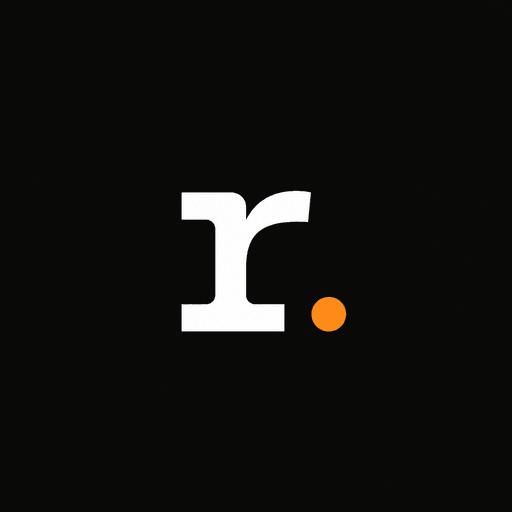
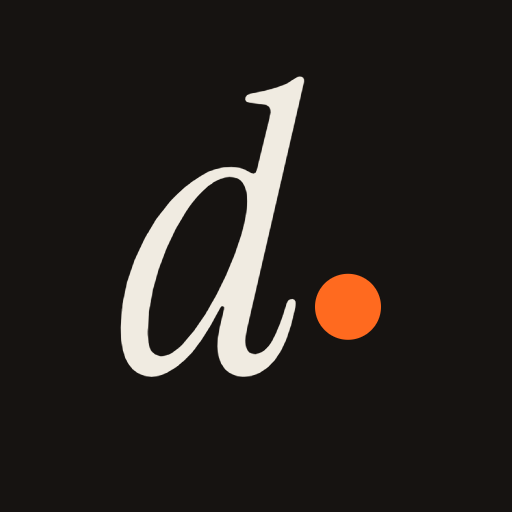
Brand the installed app as dsarecx; add developer GitHub contact
- manifest.json: name, short name, description, start page, colours,
  maskable icon and shortcuts are dsarecx (was Engram)
- New "d." app icons and favicon (scripts/generate-icons.mjs); remove
  unused old images
- GitHub profile github.com/lakshmanrevanth as developer contact on the
  contact, about and footer, and in page metadata
- Default source repo lakshmanrevanth/dsarecx for issue and source links

Changed region(s): [[0.2188, 0.125, 0.75, 0.75]]

diff --git a/src/components/landing/footer.tsx b/src/components/landing/footer.tsx
@@ -51,7 +51,7 @@ export function Footer() {
                   href={siteConfig.githubUrl}
                   target="_blank"
                   rel="noopener noreferrer"
-                  aria-label={`${siteConfig.name} on GitHub`}
+                  aria-label={`${siteConfig.name} source code on GitHub`}
                   className="hover:text-foreground"
                 >
                   <GitHubIcon size={16} />
@@ -77,7 +77,11 @@ export function Footer() {
 
         <div className="mt-16 flex flex-col gap-3 border-t border-border pt-6 font-mono text-[11px] uppercase tracking-[0.14em] text-faint sm:flex-row sm:items-center sm:justify-between">
           <span>
-            © {year} {siteConfig.owner} · {siteConfig.license}
+            © {year}{' '}
+            <a href={siteConfig.ownerGithubUrl} target="_blank" rel="noopener noreferrer" className="hover:text-foreground">
+              {siteConfig.owner} (@{siteConfig.ownerGithub})
+            </a>{' '}
+            · {siteConfig.license}
           </span>
           <span>Not affiliated with LeetCode or any platform listed</span>
         </div>

diff --git a/src/config/site.ts b/src/config/site.ts
@@ -18,7 +18,11 @@ export function parseRepo(value: string | undefined): string | null {
   return /^[\w.-]+\/[\w.-]+$/.test(v) ? v : null;
 }
 
-const githubRepo = parseRepo(process.env.NEXT_PUBLIC_GITHUB_REPO);
+/** The public source repository. NEXT_PUBLIC_GITHUB_REPO overrides it (e.g. for a fork). */
+const githubRepo = parseRepo(process.env.NEXT_PUBLIC_GITHUB_REPO) ?? 'lakshmanrevanth/dsarecx';
+
+/** The developer's GitHub profile: the main contact for the project. */
+const ownerGithub = 'lakshmanrevanth';
 
 export const siteConfig = {
   name: 'dsarecx',
@@ -31,6 +35,8 @@ export const siteConfig = {
     'Spaced repetition for DSA problems and system design. dsarecx schedules each review right before you would forget, so patterns stick for your interviews.',
   owner: 'Lakshman Revanth Reddy',
   contactEmail: 'revanth3527@gmail.com',
+  ownerGithub,
+  ownerGithubUrl: `https://github.com/${ownerGithub}`,
   url,
   host: hostOf(url),
   githubRepo,

diff --git a/src/app/layout.tsx b/src/app/layout.tsx
@@ -63,7 +63,7 @@ export const metadata: Metadata = {
     'Coding interview preparation',
     'Forgetting curve',
   ],
-  authors: [{ name: siteConfig.owner }],
+  authors: [{ name: siteConfig.owner, url: siteConfig.ownerGithubUrl }],
   creator: siteConfig.owner,
   category: 'Education & Developer Tools',
   formatDetection: { email: false, address: false, telephone: false },
@@ -123,7 +123,7 @@ const jsonLd = {
         'System design concepts and learning paths',
         'Daily revision queue, streaks, heatmap and stats',
       ],
-      author: { '@type': 'Person', name: siteConfig.owner },
+      author: { '@type': 'Person', name: siteConfig.owner, url: siteConfig.ownerGithubUrl },
     },
     {
       '@type': 'Organization',

diff --git a/src/app/(landing)/about/page.tsx b/src/app/(landing)/about/page.tsx
@@ -57,7 +57,11 @@ export default function AboutPage() {
           title: 'Open source',
           body: (
             <p>
-              {name} is made by {siteConfig.owner}. It is free and open source under {siteConfig.license}, and your data exports in
+              {name} is made by{' '}
+              <a href={siteConfig.ownerGithubUrl} target="_blank" rel="noopener noreferrer" className="text-foreground underline underline-offset-2 hover:text-ember">
+                {siteConfig.owner}
+              </a>
+              . It is free and open source under {siteConfig.license}, and your data exports in
               full whenever you want it.
             </p>
           ),

diff --git a/src/components/landing/github-star-button.test.tsx b/src/components/landing/github-star-button.test.tsx
@@ -47,10 +47,9 @@ describe('GitHubStarButton', () => {
     expect(markup).toContain('https://github.com/owner/repo');
   });
 
-  it('renders nothing when no repo is configured', async () => {
+  it('falls back to the dsarecx repository when none is configured', async () => {
     const { GitHubStarButton } = await loadModule('');
-    expect(renderToStaticMarkup(<GitHubStarButton />)).toBe('');
-    expect(renderToStaticMarkup(<GitHubStarButton variant="sidebar" />)).toBe('');
+    expect(renderToStaticMarkup(<GitHubStarButton />)).toContain('https://github.com/lakshmanrevanth/dsarecx');
   });
 
   it('formats star counts compactly', async () => {

diff --git a/src/app/(landing)/contact/page.tsx b/src/app/(landing)/contact/page.tsx
@@ -10,6 +10,7 @@ export const metadata: Metadata = {
 };
 
 const CHANNELS = [
+  { label: 'Developer on GitHub', value: `github.com/${siteConfig.ownerGithub}`, href: siteConfig.ownerGithubUrl },
   { label: 'Email', value: siteConfig.contactEmail, href: `mailto:${siteConfig.contactEmail}` },
   ...(siteConfig.githubUrl
     ? [{ label: 'Issues & pull requests', value: siteConfig.githubUrl.replace(/^https:\/\//, ''), href: `${siteConfig.githubUrl}/issues` }]
